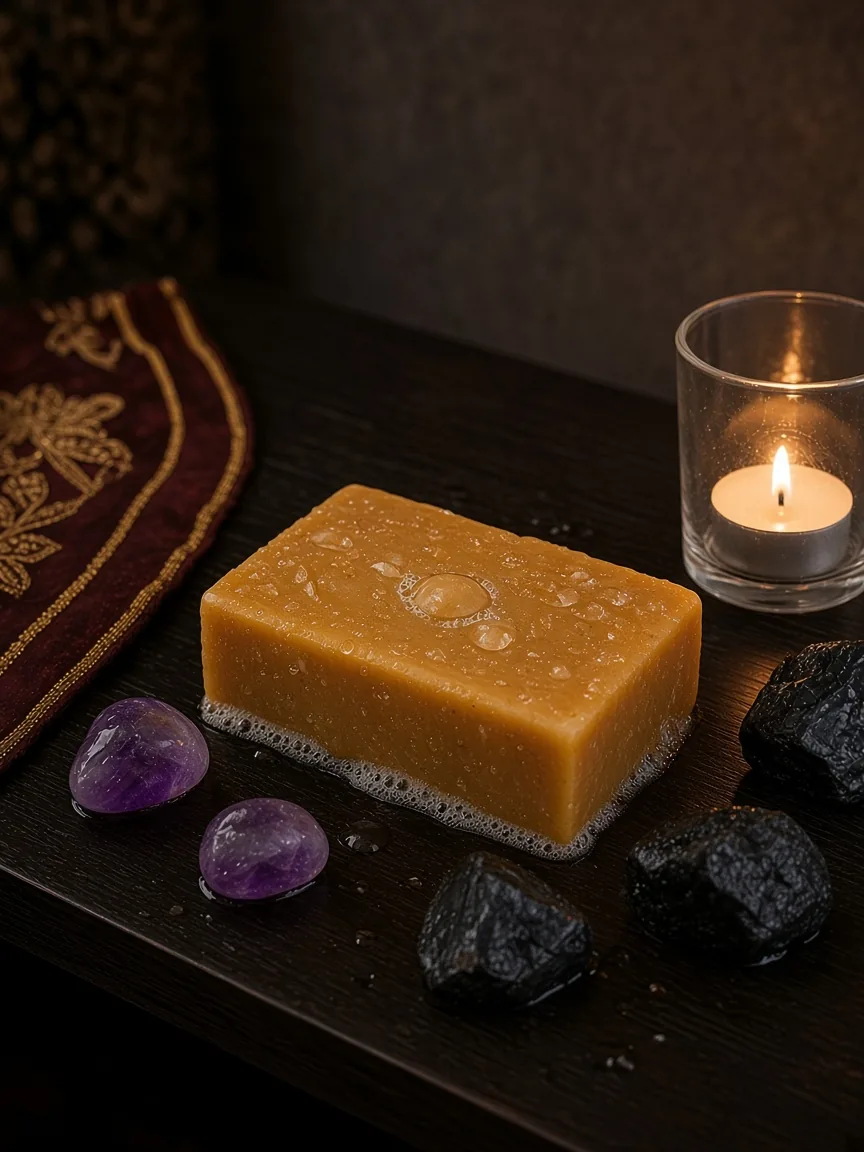
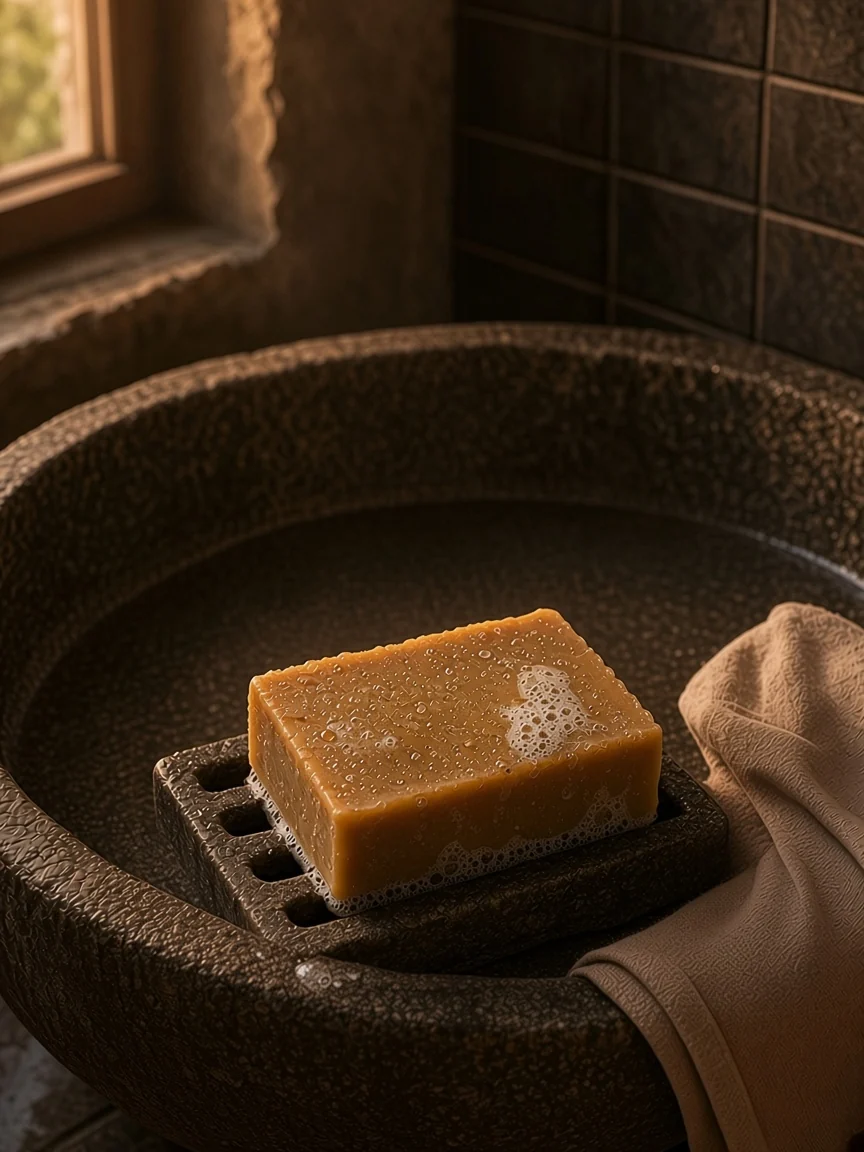
Aggiorna home-officina: Olio sul palmo e Sapone in bagno

diff --git a/home-officina/index.html b/home-officina/index.html
@@ -2293,7 +2293,7 @@ Vedi tutto
     </div>
     <div id="officina-panel" role="tabpanel" aria-labelledby="officina-tab-olio" tabindex="0">
       <figure class="bz-officina-stage">
-        <img class="bz-officina-scene" src="assets/officina-scena-olio.webp" alt="Un contagocce lascia cadere una goccia d'olio sul dorso di una mano" loading="lazy" decoding="async" draggable="false">
+        <img class="bz-officina-scene" src="assets/officina-scena-olio.webp?v=4" alt="Un contagocce lascia cadere una goccia d'olio sul palmo di una mano" loading="lazy" decoding="async" draggable="false">
         <figcaption class="bz-officina-cap">
           <h3>Olio</h3>
           <p>Si lascia sui polsi, e resta sulla pelle per tutta la sera.</p>
@@ -2569,7 +2569,7 @@ Orari: lun, mar, mer, ven, sab 9:30–12:30 e 16:00–19:30, gio 9:00–13:00. D
 <script src="assets/estimate-shipping-rate-fd3ec72527.js" defer=""></script><script src="assets/theme-4d12faa507.js" defer=""></script>
     <script src="assets/bz-v411c-027b1b7e30.js" defer=""></script>
     <link href="assets/bz-ds-ba72eb1154.css" rel="stylesheet" type="text/css" media="all">
-    <link href="assets/bz-officina.css?v=3" rel="stylesheet" type="text/css" media="all">
+    <link href="assets/bz-officina.css?v=4" rel="stylesheet" type="text/css" media="all">
     <script src="assets/vendors-7f4ac9fc68.js" defer=""></script>
 
 <script>
@@ -2595,5 +2595,5 @@ document.addEventListener("DOMContentLoaded", function() {
   <style> /* === Homepage: heading unificati come "Cosa ci rende diversi" (no colore) === */:root {--zen-heading-font: "Noto Sans", -apple-system, BlinkMacSystemFont, "Segoe UI", Roboto, Helvetica, Arial, sans-serif; --zen-heading-weight: 500; --zen-heading-lh: 1.2; --zen-heading-mb: 20px;}  /* Scopo solo homepage (Dawn = .template-index; fallback body.index) */.template-index,body.index {}  /* Base: famiglia, peso, interlinea, tracking, margine — colore lasciato ereditare */.template-index :is(h1,h2,h3,.h1,.h2,.h3, .title,.section-title,.page-title, .title-wrapper-with-link .title, .rich-text__heading, .collection-list .title, .multicolumn .title, .testimonials__heading, .zen-quiz-title, /* quiz */ .zen-title /* why-us */) {font-family: var(--zen-heading-font) !important; font-weight: var(--zen-heading-weight) !important; line-height: var(--zen-heading-lh) !important; letter-spacing: normal !important; margin-bottom: var( --zen-heading-mb ); /* NIENTE color qui: ogni sezione mantiene il proprio */}  /* Dimensioni coerenti (stile .zen-why-us .zen-title) */.template-index :is( h1, .h1, .page-title, .title-wrapper-with-link .title, .collection-list .title, .testimonials__heading, .zen-quiz-title, .zen-title ) {font-size: clamp(32px, 5vw, 48px) !important;} .template-index :is(h2, .h2, .section-title) {font-size: clamp(28px, 4.2vw, 40px) !important;} .template-index :is(h3, .h3, .multicolumn .title) {font-size: clamp(22px, 3.2vw, 30px) !important;} #ScrollTop, .scroll-to-top, .scroll-top-btn {display: none !important;} </style>
 <script src="assets/standard-actions-8408a04556.js" type="module" data-source-attribution="shopify.standard_actions"></script>
 
-<div tabindex="-1" aria-hidden="true" id="web-pixels-manager-sandbox-container" data-shopify-privacy="exclude" style="height: 0px !important; width: 0px !important; position: fixed !important; visibility: hidden !important; overflow: hidden !important; z-index: -100 !important; margin: 0px !important; padding: 0px !important; border: 0px !important;"><iframe tabindex="-1" aria-hidden="true" name="web-pixel-sandbox-CUSTOM-shopify-custom-pixel-LAX-15451528w2c618d7fpfa16f52dm59493539" src="assets/file-f0b10ff5f6.bin" id="web-pixel-sandbox-CUSTOM-shopify-custom-pixel-LAX-15451528w2c618d7fpfa16f52dm59493539" sandbox="allow-scripts allow-forms" style="height: 0px !important; width: 0px !important; visibility: hidden !important;"></iframe></div><script src="https://www.googletagmanager.com/gtag/js?id=G-8ZS80B113S"></script><script src="https://www.googletagmanager.com/gtag/js?id=GT-PZ6GLK33"></script><div id="PBarNextFrameWrapper" popover="manual" style="height: calc(68px + env(safe-area-inset-bottom, 0)); position: fixed; box-sizing: border-box; overflow: hidden; margin: 0px; background-color: transparent !important;"><iframe id="PBarNextFrame" src="assets/index-928ab2e716.bin" sandbox="allow-same-origin allow-popups allow-popups-to-escape-sandbox allow-top-navigation allow-scripts allow-forms" style="width: 100%; height: 100dvh; border-width: medium; border-style: none; border-color: currentcolor; border-image: none; position: absolute; bottom: 0px; left: 0px;"></iframe></div>    <script src="assets/bz-officina.js?v=3" defer></script>
+<div tabindex="-1" aria-hidden="true" id="web-pixels-manager-sandbox-container" data-shopify-privacy="exclude" style="height: 0px !important; width: 0px !important; position: fixed !important; visibility: hidden !important; overflow: hidden !important; z-index: -100 !important; margin: 0px !important; padding: 0px !important; border: 0px !important;"><iframe tabindex="-1" aria-hidden="true" name="web-pixel-sandbox-CUSTOM-shopify-custom-pixel-LAX-15451528w2c618d7fpfa16f52dm59493539" src="assets/file-f0b10ff5f6.bin" id="web-pixel-sandbox-CUSTOM-shopify-custom-pixel-LAX-15451528w2c618d7fpfa16f52dm59493539" sandbox="allow-scripts allow-forms" style="height: 0px !important; width: 0px !important; visibility: hidden !important;"></iframe></div><script src="https://www.googletagmanager.com/gtag/js?id=G-8ZS80B113S"></script><script src="https://www.googletagmanager.com/gtag/js?id=GT-PZ6GLK33"></script><div id="PBarNextFrameWrapper" popover="manual" style="height: calc(68px + env(safe-area-inset-bottom, 0)); position: fixed; box-sizing: border-box; overflow: hidden; margin: 0px; background-color: transparent !important;"><iframe id="PBarNextFrame" src="assets/index-928ab2e716.bin" sandbox="allow-same-origin allow-popups allow-popups-to-escape-sandbox allow-top-navigation allow-scripts allow-forms" style="width: 100%; height: 100dvh; border-width: medium; border-style: none; border-color: currentcolor; border-image: none; position: absolute; bottom: 0px; left: 0px;"></iframe></div>    <script src="assets/bz-officina.js?v=4" defer></script>
 </body></html>

diff --git a/home-officina/assets/bz-officina.js b/home-officina/assets/bz-officina.js
@@ -7,8 +7,8 @@
       title: "Olio",
       caption: "Si lascia sui polsi, e resta sulla pelle per tutta la sera.",
       veil: "#3a281c",
-      scene: "assets/officina-scena-olio.webp",
-      alt: "Un contagocce lascia cadere una goccia d'olio sul dorso di una mano",
+      scene: "assets/officina-scena-olio.webp?v=4",
+      alt: "Un contagocce lascia cadere una goccia d'olio sul palmo di una mano",
       products: [
         ["Roll-on Ambra", "profumo ayurvedico", "16,50", "olio-profumato-ayurveda-ambra", "54793126642002", "assets/prod-olio-ambra.webp"],
         ["Roll-on Vaniglia", "profumo ayurvedico", "16,50", "olio-profumato-ayurveda-vaniglia", "54793125986642", "assets/prod-olio-vaniglia.webp"],
@@ -43,8 +43,8 @@
       title: "Sapone",
       caption: "Il gesto di ogni mattina, con oli e spezie.",
       veil: "#332415",
-      scene: "assets/officina-scena-sapone.webp",
-      alt: "Saponetta dorata accanto a una candela e a bastoncini di cannella",
+      scene: "assets/officina-scena-sapone.webp?v=4",
+      alt: "Una saponetta bagnata su un portasapone in un lavabo di pietra",
       products: [
         ["Sapone alla curcuma", "Holy Lama", "7,90", "sapone-curcuma-holy-lama", "50427684913490", "assets/prod-sapone-curcuma.webp"],
         ["Sapone alla rosa", "Holy Lama", "7,90", "sapone-yogi-di-holy-lama-alla-rosa", "54793131721042", "assets/prod-sapone-rosa.webp"],
